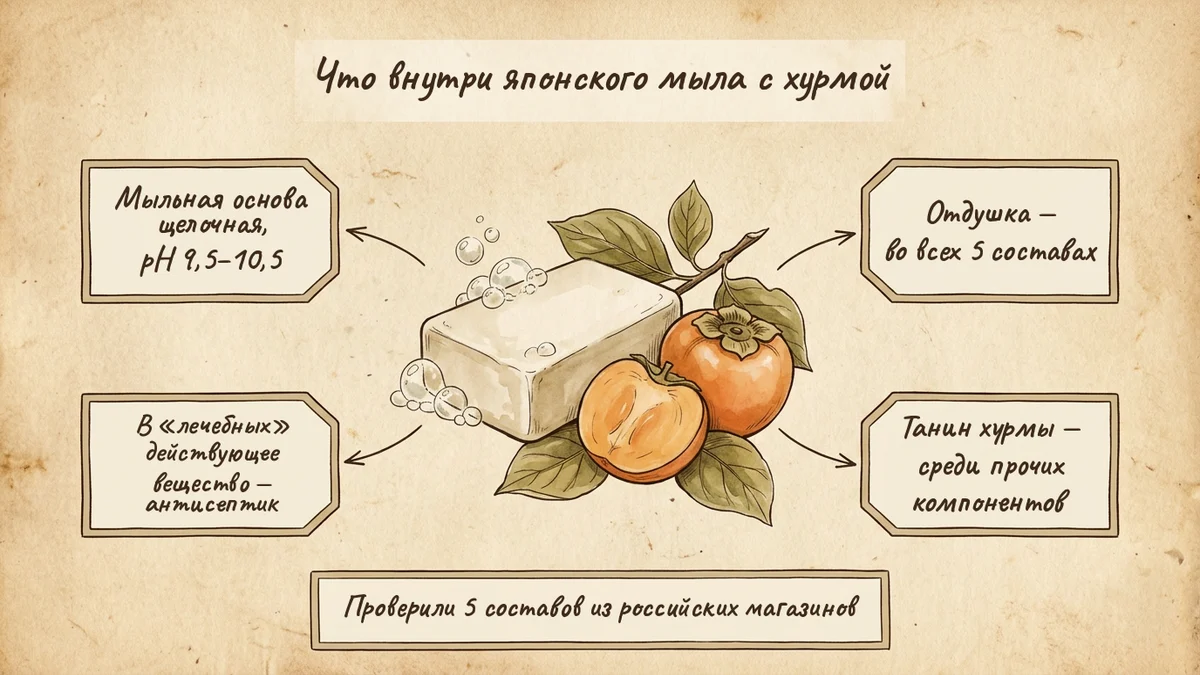
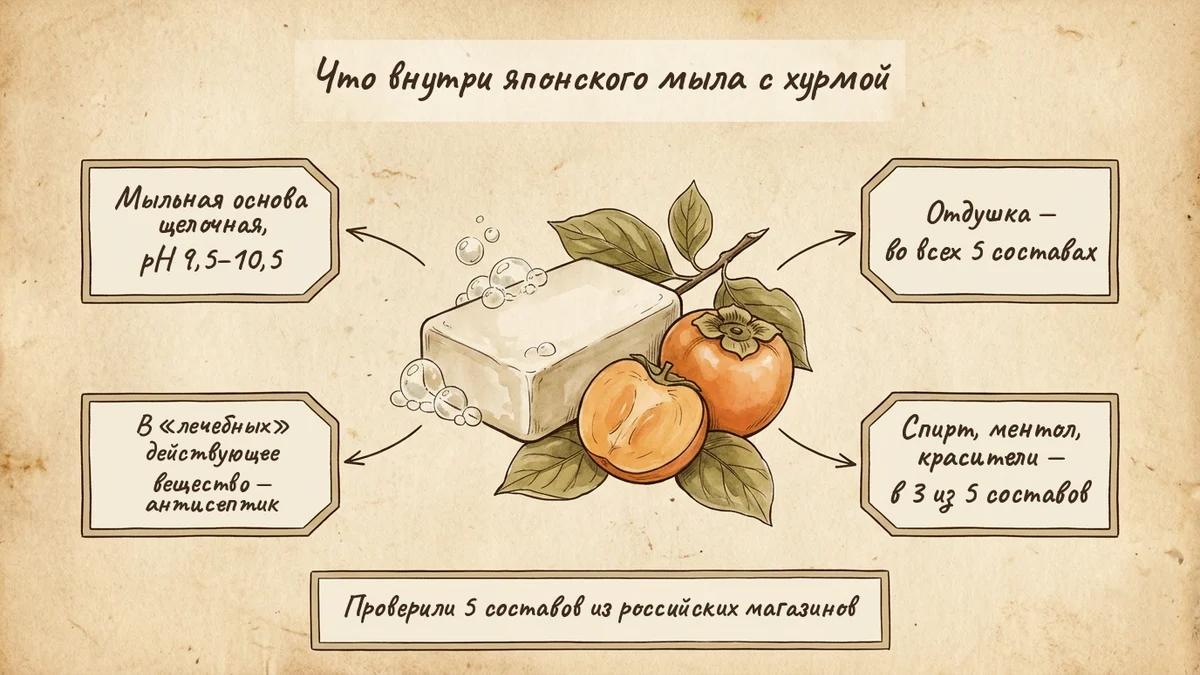
Иллюстрация мыла: вместо «танин среди прочих» — «спирт, ментол, красители в 3 из 5»

Changed region(s): [[0.74, 0.6222, 0.925, 0.7778]]

diff --git a/03-сайт/черновики/mylo-s-hurmoj/index.html b/03-сайт/черновики/mylo-s-hurmoj/index.html
@@ -222,7 +222,7 @@
 <p>Есть исследование и про возрастной запах. В 2012 году японские учёные проверили полифенолы хурмы двумя способами. В лаборатории они связывали 2-ноненаль. А у 20 японских мужчин 43–75 лет за 4 недели мытья достоверно снизились и количество 2-ноненаля на коже, и сила запаха (<a href="https://doi.org/10.2171/jao.43.362" target="_blank" rel="noopener">Tatsuguchi и соавторы, 2012</a>). Это хороший результат, но с двумя оговорками: участвовали только японцы, и измеряли в первую очередь 2-ноненаль. А его, как выяснилось позже, находят не у всех.</p>
 <p>Ещё деталь: в японских «лечебных» мылах с хурмой <strong>действующим веществом на упаковке указан антисептик</strong> изопропилметилфенол, а хурма стоит в списке прочих компонентов. Если продавец пишет «92 % покупателей заметили результат», это обычно опрос покупателей, а не измерение.</p>
 
-<div class="figure"><img src="/images/mylo-s-hurmoj-sostav.webp" alt="Иллюстрация: брусок мыла и хурма, подписи — мыльная щелочная основа pH 9,5–10,5, отдушка во всех пяти составах, в лечебных мылах действующее вещество антисептик, танин хурмы среди прочих компонентов" width="1200" height="675" loading="lazy"><figcaption>Что мы нашли в составах пяти японских мыл с хурмой из российских магазинов (проверено 06.10.2026).</figcaption></div>
+<div class="figure"><img src="/images/mylo-s-hurmoj-sostav.webp" alt="Иллюстрация: брусок мыла и хурма, подписи — мыльная щелочная основа pH 9,5–10,5, отдушка во всех пяти составах, в лечебных мылах действующее вещество антисептик, спирт, ментол или красители в трёх составах из пяти" width="1200" height="675" loading="lazy"><figcaption>Что мы нашли в составах пяти японских мыл с хурмой из российских магазинов (проверено 06.10.2026).</figcaption></div>
 
 <h2>2-ноненаль оказался не единственной причиной</h2>
 <p>За двадцать лет картина стала сложнее:</p>
